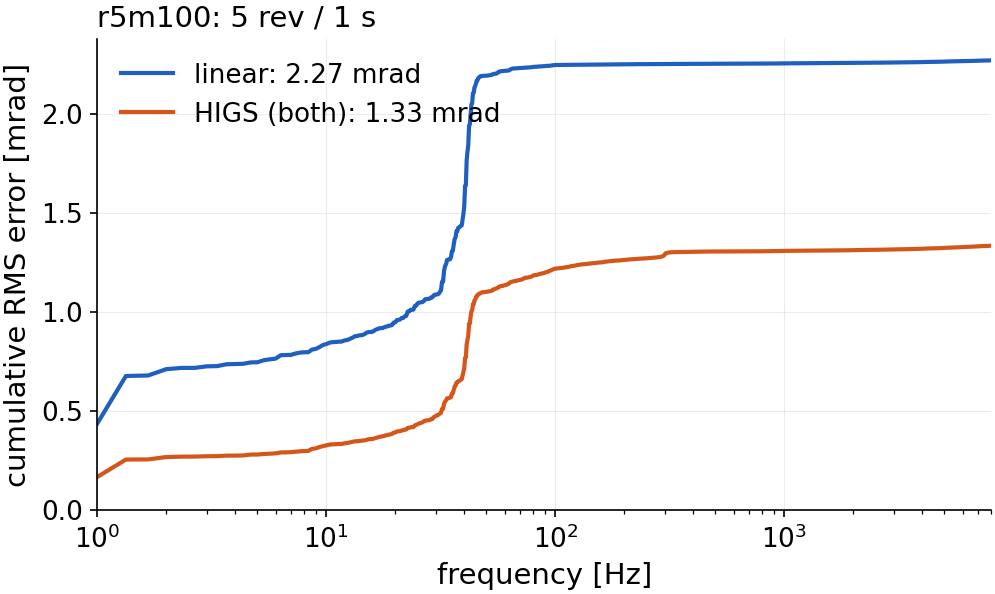
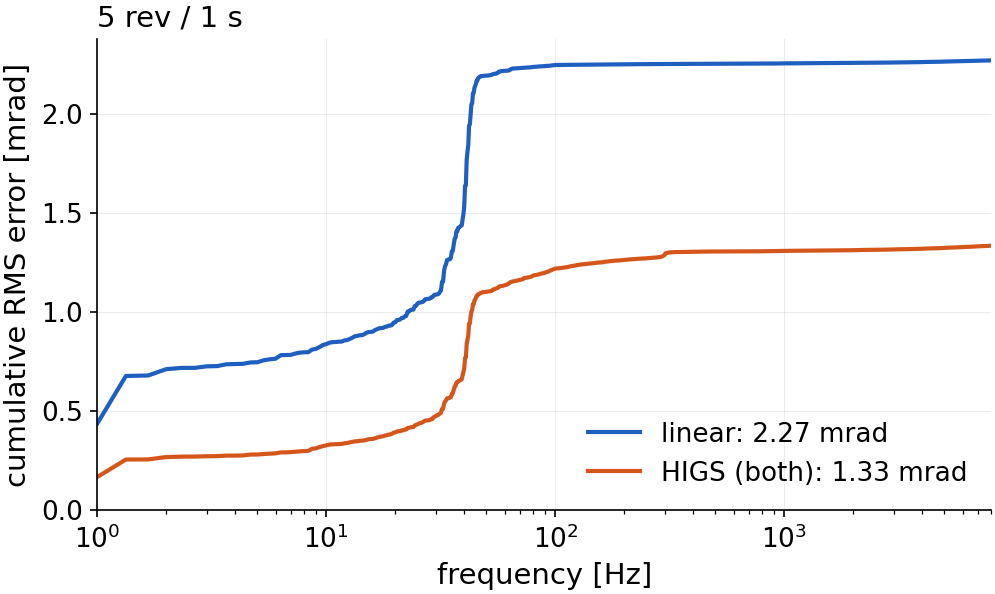
[higs] Tidy figure legends and style parameters

diff --git a/simulations/higs_hw_figures.py b/simulations/higs_hw_figures.py
@@ -38,6 +38,7 @@ DPI = 150
 SQ = R.SQ
 
 W = 7.0                       # width of a one-axis figure [in]
+BODE_ASPECT = 0.95            # height / width of a magnitude / phase pair
 C_LIN, C_HIGS, C_MEAS, C_GRAY, C_RED = "#1f5fbf", "#d4561a", "#222222", "#9a9a9a", "#b01e1e"
 COLOR = {"linear": C_LIN, "both": C_HIGS}
 LABEL = {"linear": "linear", "both": "HIGS (both)"}
@@ -82,8 +83,9 @@ def fig_ax(aspect=0.62, w=None):
     return fig, ax
 
 
-def bode(aspect=0.95, w=None):
+def bode(aspect=None, w=None):
     w = w or W
+    aspect = aspect or BODE_ASPECT
     fig, axs = plt.subplots(2, 1, figsize=(w, w * aspect), sharex=True, gridspec_kw=dict(height_ratios=[1.15, 1]))
     return fig, axs
 
@@ -174,7 +176,7 @@ def fig1_frf(ctx, w=None):
     model = ctx.gate.M.P[0]
     ph = np.degrees(np.unwrap(np.angle(model)))
     ph -= 360 * np.round((ph[0] + 180) / 360)
-    fig, axs = bode(0.95, w)
+    fig, axs = bode(None, w)
     for amp, color, label, ms in (("ms030", "#8fb5ea", "measured, 0.3 A", 3), ("ms060", C_LIN, "measured, 0.6 A (sliding)", 3)):
         D = ctx.Ds[amp]
         sel = (D["f"] >= 1) & (D["f"] <= 3000)
@@ -190,7 +192,7 @@ def fig1_frf(ctx, w=None):
         ax.axvspan(1, ctx.splice, color="#e8a33a", alpha=0.16, lw=0)
         ax.axvline(ctx.splice, color="k", ls="-.", lw=1.0)
     axs[0].text(1.25, 0.04, "friction region", transform=axs[0].get_xaxis_transform(), va="bottom", color="#8a5a00")
-    axs[0].text(ctx.splice * 0.93, 0.97, f"splice {ctx.splice:.0f} Hz", transform=axs[0].get_xaxis_transform(), va="top", ha="right", rotation=90)
+    axs[0].text(ctx.splice * 0.93, 0.04, f"splice {ctx.splice:.0f} Hz", transform=axs[0].get_xaxis_transform(), va="bottom", ha="right", rotation=90)
     axs[0].set_ylabel("|Hl| [dB re rad/A]")
     axs[1].set_ylabel("phase [deg]")
     axs[1].set_xlabel("frequency [Hz]")
@@ -219,11 +221,11 @@ def hw_blocks(ctx, mode, f):
     return dict(i=(i_lin, i_h, c["wc_i"] / SQ / (2 * np.pi)), lp=(lpb, lp_h, c["wc_lp"] / SQ / (2 * np.pi)))
 
 
-def fig2_block_df(ctx, w=None):
+def fig2_block_df(ctx, w=None, aspect=0.66):
     f = np.geomspace(0.5, 3000., 700)
     blk = hw_blocks(ctx, "both", f)
     w = w or 1.55 * W
-    fig, axs = plt.subplots(2, 2, figsize=(w, 0.66 * w), sharex=True)
+    fig, axs = plt.subplots(2, 2, figsize=(w, aspect * w), sharex=True)
     for col, (key, title, lin_lab) in enumerate((("i", "integrator block", r"linear $C^*$"), ("lp", "low-pass block", r"linear $C^*$"))):
         lin, hg, fh = blk[key]
         axs[0, col].plot(f, db(lin), color=C_GRAY, label=lin_lab)
@@ -252,7 +254,7 @@ def fig3_element(ctx, which, w=None):
     w_rad = 2 * np.pi * f
     n = R.df_analytic(w_rad, wh)
     h = SQ * wh / (1j * w_rad + SQ * wh)
-    fig, axs = bode(0.95, w)
+    fig, axs = bode(None, w)
     axs[0].plot(f, db(h), color=C_GRAY, label=r"linear $H=\omega_c/(s+\omega_c)$")
     axs[0].plot(f, db(n), color=C_HIGS, label=r"HIGS DF $N$")
     axs[1].plot(f, np.degrees(np.unwrap(np.angle(h))), color=C_GRAY)
@@ -274,7 +276,7 @@ def fig3_element(ctx, which, w=None):
 
 def small_bode(f, curves, name, ylab, w=None, marks=(), legend="best"):
     """curves: [(complex response, label, color, linestyle)]."""
-    fig, axs = bode(0.95, w)
+    fig, axs = bode(None, w)
     for r, lab, col, ls in curves:
         axs[0].plot(f, db(r), color=col, ls=ls, label=lab)
         axs[1].plot(f, np.degrees(np.unwrap(np.angle(r))), color=col, ls=ls)
@@ -291,7 +293,7 @@ def small_bode(f, curves, name, ylab, w=None, marks=(), legend="best"):
     return save(fig, name)
 
 
-def fig3_filters(ctx, w=None):
+def fig3_filters(ctx, w=None, only=("wi", "vi", "vlp", "notch")):
     d = ctx.des["both"]["design"]
     c = B.corners(d)
     f = np.geomspace(1., 3000., 600)
@@ -303,14 +305,18 @@ def fig3_filters(ctx, w=None):
     v_i = (sw + c["wc_i"]) / c["wc_i"] * c["wi"] / sw
     v_lp = (sw + c["wc_lp"]) / c["wc_lp"] * lpb
     names = []
-    names.append(small_bode(f, [(wi_f, r"$W_i$", C_HIGS, "-"), (1 / wi_f, r"$W_i^{-1}$", C_GRAY, "--")], "fig3c_wi", "magnitude [dB]", w,
-                            marks=(wp / (2 * np.pi), wz / (2 * np.pi)), legend="center left"))
-    names.append(small_bode(f, [(v_i, r"$V_i=H_i^{-1}\,\omega_i/s$", C_HIGS, "-")], "fig3d_vi", "magnitude [dB]", w,
-                            marks=(c["wc_i"] / (2 * np.pi),), legend="upper right"))
-    names.append(small_bode(f, [(v_lp, r"$V_{lp}=H_{lp}^{-1}C_{lp}$", C_HIGS, "-")], "fig3e_vlp", "magnitude [dB]", w,
-                            marks=(c["wc_lp"] / (2 * np.pi), wl / (2 * np.pi)), legend="lower left"))
-    names.append(small_bode(f, [(B.notch_fr(sw, c["notch"]), r"notch $C_n$", C_HIGS, "-")], "fig3f_notch", "magnitude [dB]", w,
-                            marks=(c["notch"][0] / (2 * np.pi), c["notch"][2] / (2 * np.pi)), legend="lower left"))
+    if "wi" in only:
+        names.append(small_bode(f, [(wi_f, r"$W_i$", C_HIGS, "-"), (1 / wi_f, r"$W_i^{-1}$", C_GRAY, "--")], "fig3c_wi", "magnitude [dB]", w,
+                    marks=(wp / (2 * np.pi), wz / (2 * np.pi)), legend="center left"))
+    if "vi" in only:
+        names.append(small_bode(f, [(v_i, r"$V_i=H_i^{-1}\,\omega_i/s$", C_HIGS, "-")], "fig3d_vi", "magnitude [dB]", w,
+                    marks=(c["wc_i"] / (2 * np.pi),), legend="upper right"))
+    if "vlp" in only:
+        names.append(small_bode(f, [(v_lp, r"$V_{lp}=H_{lp}^{-1}C_{lp}$", C_HIGS, "-")], "fig3e_vlp", "magnitude [dB]", w,
+                    marks=(c["wc_lp"] / (2 * np.pi), wl / (2 * np.pi)), legend="lower left"))
+    if "notch" in only:
+        names.append(small_bode(f, [(B.notch_fr(sw, c["notch"]), r"notch $C_n$", C_HIGS, "-")], "fig3f_notch", "magnitude [dB]", w,
+                    marks=(c["notch"][0] / (2 * np.pi), c["notch"][2] / (2 * np.pi)), legend="lower left"))
     return names
 
 
@@ -428,7 +434,7 @@ def fig5_sensitivity(ctx, mode, w=None):
     ax.text(5.5, 1.95, r"$|S|=2$", color=C_RED, va="top")
     ax.set_xlabel("frequency [Hz]")
     ax.set_ylabel(r"$|S|$")
-    ax.set_ylim(0, 4.0 if mode == "both" else 2.6)
+    ax.set_ylim(0, 4.0 if mode == "both" else 3.0)
     ax.set_title(LABEL[mode], loc="left", color=COLOR[mode])
     ax.legend(loc="upper left")
     logx(ax, 5, 1000)
@@ -484,7 +490,7 @@ def fig7_spectra(case, w=None):
         ax.set_xlim(1, FS / 2)
         ax.set_xlabel("frequency [Hz]")
         ax.set_ylabel(f"{ylab} [{unit}]")
-        ax.set_title(f"{case}: {CASES[case]}", loc="left")
+        ax.set_title(CASES[case], loc="left")
         ax.legend(loc="upper right")
         fig.tight_layout()
         names.append(save(fig, f"fig7{'a' if tag == 'err_spec' else 'b'}_{tag}_{case}"))
@@ -499,8 +505,8 @@ def fig7_spectra(case, w=None):
     ax.set_ylim(0, None)
     ax.set_xlabel("frequency [Hz]")
     ax.set_ylabel("cumulative RMS error [mrad]")
-    ax.set_title(f"{case}: {CASES[case]}", loc="left")
-    ax.legend(loc="upper left")
+    ax.set_title(CASES[case], loc="left")
+    ax.legend(loc="lower right")
     fig.tight_layout()
     names.append(save(fig, f"fig7c_cumrms_{case}"))
     return names
@@ -516,9 +522,9 @@ def fig8_modes(w=None, case="a10m010", win_ms=(-10.0, 30.0)):
         ax.step(t[s], getattr(r, ch)[s].astype(float) + off, where="post", color=C_HIGS if off == 0 else C_LIN, lw=1.5)
         ax.text(win_ms[1] + 0.01 * (win_ms[1] - win_ms[0]), off + 2, lab, va="center", color=C_HIGS if off == 0 else C_LIN)
     ax.axvline(0, color="k", ls=":", lw=1.2)
-    ax.text(0.8, 7.45, "move start", va="top")
+    ax.text(0.8, 0.25, "move start", va="bottom")
     ax.set_yticks([1, 2, 3, 5, 6, 7], ["integrator", "gain", "zero", "integrator", "gain", "zero"])
-    ax.set_ylim(0.5, 7.5)
+    ax.set_ylim(0.0, 7.5)
     ax.set_xlim(*win_ms)
     ax.set_xlabel("time from move start [ms]")
     ax.grid(axis="x", alpha=0.0)
